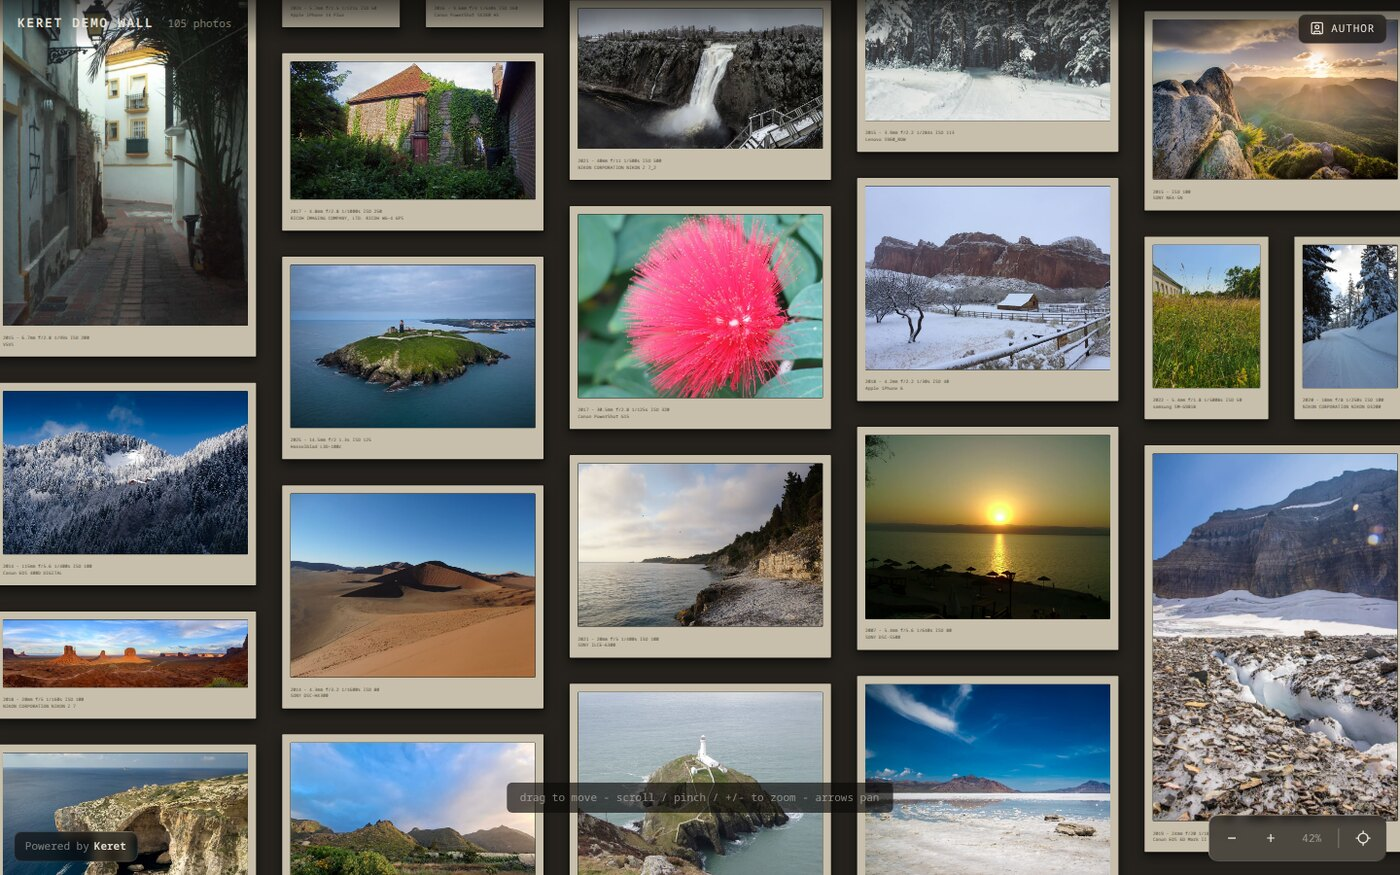
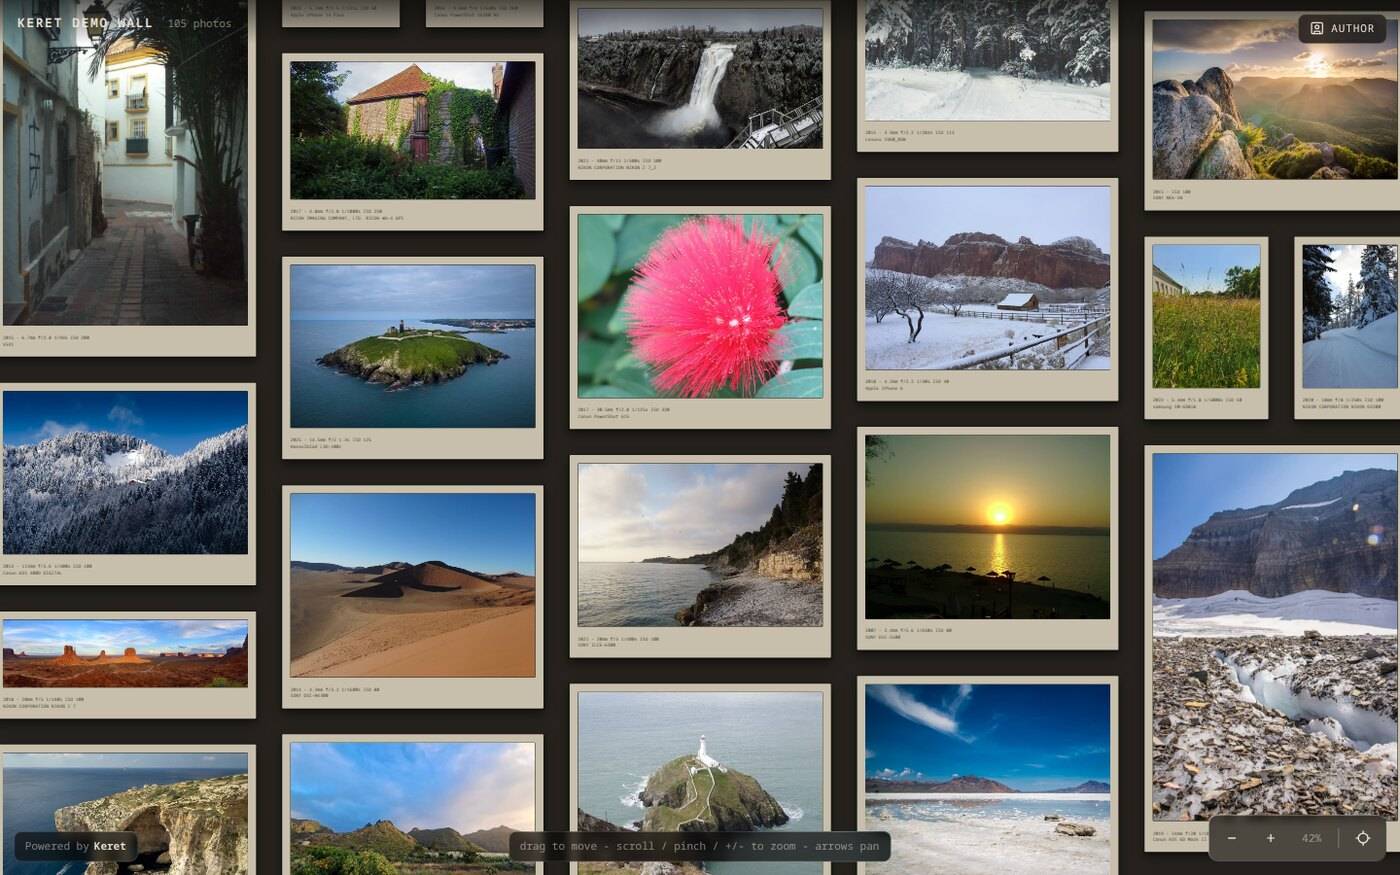
ui: put the hint on the same line as the credit and the controls
The hint floated about 50px above the bottom edge while the credit line and the
zoom controls sat on it, so the three read as unrelated pieces, and on a window
narrow enough it wrapped onto the controls.

It now shares their line (bottom:14px), their pill, their border, their blur and
their radius, and it keeps one line, so the bottom of the page is a band instead
of a stray tooltip. Below 840px wide, or on a coarse pointer, it is hidden: the
credit line and the controls need that room, and the hint is a one-time nudge
that fades after a few seconds anyway.

Measured at 1440, 850 and 830 wide: the three share a bottom edge, nothing
overlaps, and the two pills match the controls' pill. The README hero is
retaken, so the tooltip in it is the aligned one.

Changed region(s): [[0.3379, 0.8949, 0.645, 0.9874]]

diff --git a/demo/dist/index.html b/demo/dist/index.html
@@ -135,14 +135,19 @@
   header h1 { font-size:13px; font-weight:600; letter-spacing:.12em; text-transform:uppercase; }
   header .count { font-size:11px; color:var(--ink-dim); }
 
+  /* the hint sits on the same line as the credit and the controls and wears the
+     same pill, so the three read as one band */
   #hint {
-    position:fixed; left:50%; bottom:64px; transform:translateX(-50%);
+    position:fixed; left:50%; bottom:14px; transform:translateX(-50%);
     font-size:11px; color:var(--ink-dim); text-align:center; pointer-events:none;
-    background:var(--chrome); padding:8px 14px; border-radius:6px;
+    white-space:nowrap;
+    background:var(--chrome); border:1px solid rgba(255,255,255,.12);
+    padding:7px 11px; border-radius:8px; backdrop-filter:blur(4px);
     opacity:1; transition:opacity 1.2s ease 6s;
   }
   #hint.gone { opacity:0; }
-  @media (pointer: coarse) { #hint { display:none; } } /* no manual on touch */
+  /* no manual on touch, and no room for it beside the controls on a narrow window */
+  @media (pointer: coarse), (max-width: 840px) { #hint { display:none; } }
 
   #controls {
     position:fixed; right:14px; bottom:14px;

diff --git a/src/assets/page.css b/src/assets/page.css
@@ -112,14 +112,19 @@
   header h1 { font-size:13px; font-weight:600; letter-spacing:.12em; text-transform:uppercase; }
   header .count { font-size:11px; color:var(--ink-dim); }
 
+  /* the hint sits on the same line as the credit and the controls and wears the
+     same pill, so the three read as one band */
   #hint {
-    position:fixed; left:50%; bottom:64px; transform:translateX(-50%);
+    position:fixed; left:50%; bottom:14px; transform:translateX(-50%);
     font-size:11px; color:var(--ink-dim); text-align:center; pointer-events:none;
-    background:var(--chrome); padding:8px 14px; border-radius:6px;
+    white-space:nowrap;
+    background:var(--chrome); border:1px solid rgba(255,255,255,.12);
+    padding:7px 11px; border-radius:8px; backdrop-filter:blur(4px);
     opacity:1; transition:opacity 1.2s ease 6s;
   }
   #hint.gone { opacity:0; }
-  @media (pointer: coarse) { #hint { display:none; } } /* no manual on touch */
+  /* no manual on touch, and no room for it beside the controls on a narrow window */
+  @media (pointer: coarse), (max-width: 840px) { #hint { display:none; } }
 
   #controls {
     position:fixed; right:14px; bottom:14px;

diff --git a/docs/CHANGELOG.md b/docs/CHANGELOG.md
@@ -8,6 +8,13 @@ Reverse-chronological. One dated section per work block, entries tagged
 The engine that built a personal photo wall becomes a general tool with its own
 repository, license and demo wall. Newest first.
 
+`[Fix]` **The hint sits in the chrome band.** It floated about 50px above the
+bottom edge while the credit line and the controls sat on it, so the three read as
+unrelated pieces, and on a phone-width window it wrapped onto the controls. It
+now shares their line, their pill, their border and their blur, and it steps
+aside under 840px or on a coarse pointer, where there is no room for it beside
+the controls.
+
 `[Feature]` **A first-run wizard.** On a terminal, a wall with no
 `wall.config.json` is asked a few questions (title, description, site URL,
 photographer name, email, website) and the answers are written to

diff --git a/README.md b/README.md
@@ -21,7 +21,7 @@ personal photo wall and is now a standalone tool anyone can run.
 - **No JavaScript required to read it.** Without JS you get a plain list of the
   photos; the interactive wall is an enhancement.
 
-![The demo wall zoomed out: framed photographs on a dark wall, the credit line in the bottom left corner and the Author button in the top right](docs/assets/demo-wall.jpg)
+![The demo wall zoomed out: framed photographs on a dark wall, with the hint, the credit line and the zoom controls along the bottom, and the Author button in the top right](docs/assets/demo-wall.jpg)
 
 ## Quick start
 
